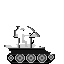
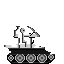
tank/strike scrript tidy

Changed region(s): [[0.3125, 0.4375, 0.4688, 0.75]]

diff --git a/Assets/Scripts/Characters/AirStrike.cs b/Assets/Scripts/Characters/AirStrike.cs
@@ -8,29 +8,32 @@ namespace Sumfulla.TankTankBoom
 {
     public class AirStrike : MonoBehaviour
     {
-        private const float SPEED = 10f;
-        private const int NUM_OF_BOMBS = 10;
-
+        private const float FLY_SPEED = 10f;
+        private const int BOMB_COUNT = 10;
+        private const float BOMB_DELAY = 0.05f;
+        
+        [Header("References")]
         [SerializeField] private GameObject _bombPf;
         [SerializeField] private Transform _bombDispatchPoint;
-        [SerializeField] private List<GameObject> _bombs;
+        private List<GameObject> _spawnedBombs;
 
-        public bool BombsReleased { get { return _bombingComplete; } }
+        public bool BombsReleased { get { return _isComplete; } }
         private float _endX;
-        private bool _bombingStarted;
-        private bool _bombingComplete;
+        private bool _hasStartedBombing;
+        private bool _isComplete;
 
-        public Action<bool> OnFlyoverCompleted;
-        public Action OnBombingCompleted;
+        public event Action<bool> FlyoverCompleted;
+        public event Action BombingCompleted;
 
         /// <summary>
         /// Set up callback listeners and initiates flyover
         /// </summary>
-        public void Init(float endX, Action<bool> strikeState, Action bombingComplete)
+        public void Init(float endX, Action<bool> onFlyoverCompleted, Action onBombingCompleted)
         {
-            OnFlyoverCompleted = strikeState;
-            OnBombingCompleted = bombingComplete;
             _endX = endX;
+            FlyoverCompleted = onFlyoverCompleted;
+            BombingCompleted = onBombingCompleted;
+
             StartCoroutine(Fly());
         }
 
@@ -41,11 +44,11 @@ namespace Sumfulla.TankTankBoom
         {
             while (transform.position.x < _endX)
             {
-                transform.position += Vector3.right * Time.deltaTime * SPEED;
+                transform.position += FLY_SPEED * Time.deltaTime * Vector3.right;
                 yield return null;
             }
 
-            OnFlyoverCompleted.Invoke(_bombingStarted);
+            FlyoverCompleted.Invoke(_hasStartedBombing);
         }
 
         /// <summary>
@@ -53,6 +56,11 @@ namespace Sumfulla.TankTankBoom
         /// </summary>
         public void ExecuteStrike()
         {
+            if (_hasStartedBombing || _isComplete)
+            {
+                return;
+            }
+
             StartCoroutine(DropBombs());
         }
 
@@ -61,19 +69,21 @@ namespace Sumfulla.TankTankBoom
         /// </summary>
         private IEnumerator DropBombs()
         {
-            _bombingStarted = true;
-            int numOfBombs = NUM_OF_BOMBS;
-            List<Coroutine> listOfBombDrops = new List<Coroutine>();
+            _hasStartedBombing = true;
+
+
+            int numOfBombs = BOMB_COUNT;
+            List<Coroutine> _activeDrops = new List<Coroutine>();
 
             for (int i = 0; i < numOfBombs; i++)
             {
-                // Spawn
+                // Spawn bombs
                 GameObject bomb = Instantiate(_bombPf, _bombDispatchPoint.position, Quaternion.identity);
-                _bombs.Add(bomb);
+                _spawnedBombs.Add(bomb);
 
                 if (bomb.TryGetComponent(out StrikeBomb sb))
                 {
-                    listOfBombDrops.Add(StartCoroutine(sb.DropBombUntilImpact()));
+                    _activeDrops.Add(StartCoroutine(sb.DropBombUntilImpact()));
                 }
 
                 // Trigger ground explosion sound
@@ -82,38 +92,45 @@ namespace Sumfulla.TankTankBoom
                     GameAudio.I.Play(SoundType.BombDropping);
                 }
 
-                yield return new WaitForSeconds(0.05f);
+                yield return new WaitForSeconds(BOMB_DELAY);
             }
 
             // Wait until all bombs dropped and signal raid is over
-            foreach (Coroutine c in listOfBombDrops)
+            foreach (Coroutine drop in _activeDrops)
             {
-                yield return c;
+                yield return drop;
             }
 
-            BombingCompleted();
+            CompleteStrike();
         }
-        
+
         /// <summary>
         /// Cleans up scene after bomb and removes any strike objects
         /// </summary>
-        public void BombingCompleted()
+        public void CompleteStrike()
         {
+            if (_isComplete)
+            {
+                return;
+            }
+            _isComplete = true;
+
             StopAllCoroutines();
 
             // Ensure all bombs are indeed removed
-            foreach(GameObject bomb in _bombs)
+            foreach(GameObject bomb in _spawnedBombs)
             {
-                if(_bombs != null)
+                if(_spawnedBombs != null)
                 {
                     Destroy(bomb);
                 }
             }
+            _spawnedBombs.Clear();
 
             // Remove any callbacks and destroy strike object
-            OnBombingCompleted.Invoke();
-            OnBombingCompleted = null;
-            OnFlyoverCompleted = null;
+            BombingCompleted.Invoke();
+            BombingCompleted = null;
+            FlyoverCompleted = null;
             Destroy(gameObject);
         }
     }

diff --git a/Assets/Scripts/Characters/AirSupport.cs b/Assets/Scripts/Characters/AirSupport.cs
@@ -4,10 +4,10 @@ namespace Sumfulla.TankTankBoom
 {
     public class AirSupport : MonoBehaviour
     {
-        [SerializeField] private GameObject _airStrikePF;
+        private const float SPAWN_OFFSET = 200f;
+        private const float HEIGHT_PERCENT = 0.8f;
 
-        private Vector3 _limitsStart;
-        private Vector3 _limitsEnd;
+        [SerializeField] private GameObject _airStrikePF;
 
         private AirStrike _strike;
 
@@ -16,17 +16,19 @@ namespace Sumfulla.TankTankBoom
         /// </summary>
         public void LaunchStrikeFlyover()
         {
+            Camera cam = Camera.main;
+
             // Determine entry position at top left of screen
-            _limitsStart = Camera.main.ScreenToWorldPoint(new Vector3(-200f, Screen.height * 0.8f, 0));
-            _limitsEnd = Camera.main.ScreenToWorldPoint(new Vector3(Screen.width + 200f, Screen.height * 0.8f, 0));
-            Vector3 entryPosition = new Vector3(_limitsStart.x, _limitsStart.y, Camera.main.nearClipPlane);
+            Vector3 limitsStart = cam.ScreenToWorldPoint(new Vector3(-SPAWN_OFFSET, Screen.height * HEIGHT_PERCENT, 0));
+            Vector3 limitsEnd = cam.ScreenToWorldPoint(new Vector3(Screen.width + SPAWN_OFFSET, Screen.height * HEIGHT_PERCENT, 0));
+            Vector3 entryPosition = new Vector3(limitsStart.x, limitsStart.y, 0);
 
             // Create AirStrike plane object and initialise behaviour
             GameObject plane = Instantiate(_airStrikePF, entryPosition, Quaternion.identity);
             if (plane.TryGetComponent(out AirStrike strike))
             {
                 _strike = strike;
-                _strike.Init(_limitsEnd.x, PlayManager.I.StrikeFlyoverEnded, PlayManager.I.StrikeSuccesful);
+                _strike.Init(limitsEnd.x, PlayManager.I.StrikeFlyoverEnded, PlayManager.I.StrikeSuccessful);
             }
         }
 
@@ -48,7 +50,7 @@ namespace Sumfulla.TankTankBoom
         {
             if (_strike != null)
             {
-                _strike.BombingCompleted();
+                _strike.CompleteStrike();
             }
         }
     }

diff --git a/Assets/Scripts/Characters/TankProjectile.cs b/Assets/Scripts/Characters/TankProjectile.cs
@@ -55,7 +55,7 @@ namespace Sumfulla.TankTankBoom
                     }
                     else
                     {
-                        Debug.LogError("Has already been triggered!");
+                        GameLog.Warn($"Projectile contact has already been triggered [{collider.gameObject.name}]");
                     }
 
                 }
@@ -73,7 +73,7 @@ namespace Sumfulla.TankTankBoom
                     }
                     else
                     {
-                        Debug.LogError("Has already been triggered!");
+                        GameLog.Warn($"Projectile contact has already been triggered [{collider.gameObject.name}]");
                     }
                 }
             }

diff --git a/Assets/Scripts/Controllers/PlayManager.cs b/Assets/Scripts/Controllers/PlayManager.cs
@@ -521,7 +521,7 @@ namespace Sumfulla.TankTankBoom
         /// <summary>
         /// When 'air strike' mission is completed, updates state properties and UI components
         /// </summary>
-        public void StrikeSuccesful()
+        public void StrikeSuccessful()
         {
             if (_strikeState == StrikeState.DROPPING)
             {
@@ -537,6 +537,8 @@ namespace Sumfulla.TankTankBoom
         /// </summary>
         public void StrikeButtonPressed()
         {
+            if (State.Current != RunState.PLAY) return;
+
             if (_strikeState == StrikeState.READY)
             {
                 AirSupport.LaunchStrikeFlyover();

diff --git a/Assets/Scripts/Characters/TankPlayer.cs b/Assets/Scripts/Characters/TankPlayer.cs
@@ -96,7 +96,8 @@ namespace Sumfulla.TankTankBoom
                 GameAudio.I.Play(SoundType.GroundExplode01);
 
                 // Update player sprite
-                int damageIndex = _shieldDamage <= 2 ? 0 : _shieldDamage - 1;
+                //int damageIndex = _shieldDamage <= 2 ? 0 : _shieldDamage - 1;
+                int damageIndex = _shieldDamage - 1;
                 _tankStateRenderer.sprite = _stateSprites[damageIndex];
 
                 // Update shield/dmg sprites

diff --git a/Assets/Scripts/Characters/EnemyTank.cs b/Assets/Scripts/Characters/EnemyTank.cs
@@ -8,7 +8,6 @@ namespace Sumfulla.TankTankBoom
 {
     [RequireComponent(typeof(Animator))]
     [RequireComponent(typeof(LineRenderer))]
-    [RequireComponent(typeof(Rigidbody2D))]
     public class EnemyTank : MonoBehaviour, IExplodableEnemy
     {
         private const int MAX_SHIELD_DAMAGE = 4;